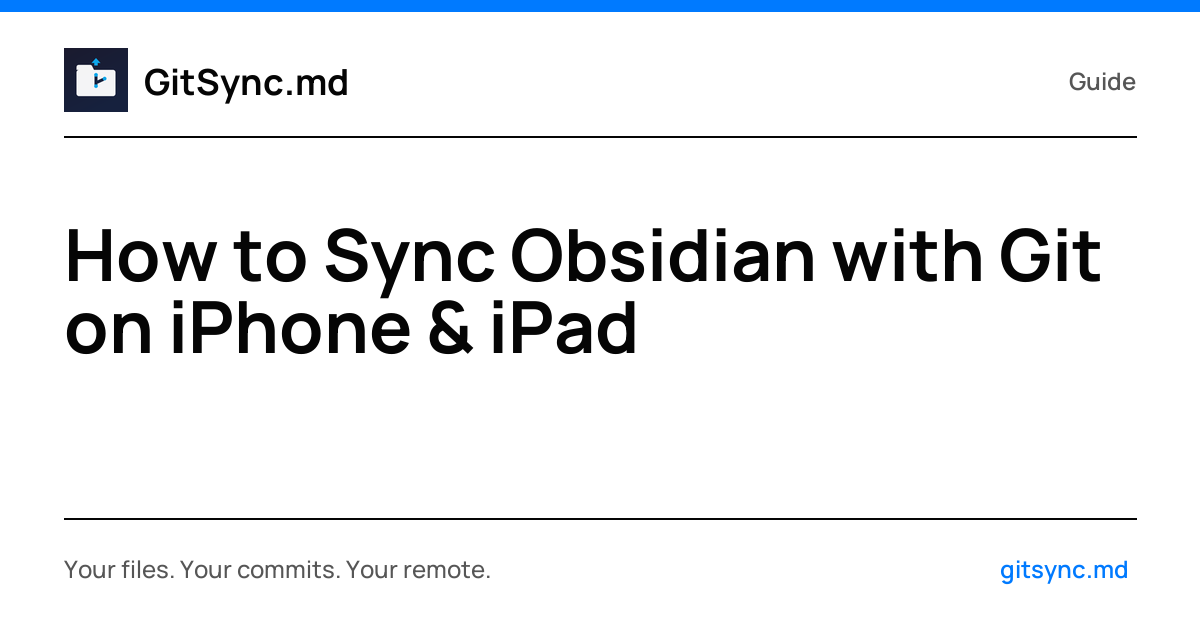
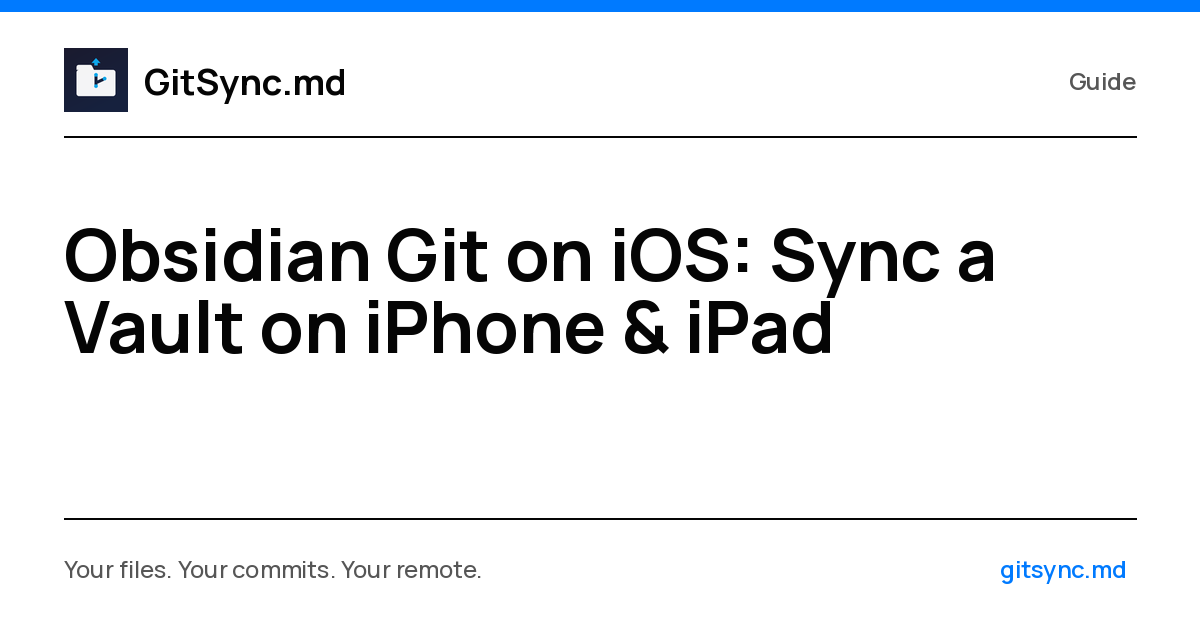
Refresh: Obsidian Git on iOS (iPhone and iPad) guide (#159)

diff --git a/site/blog/obsidian-git-iphone-ipad.html b/site/blog/obsidian-git-iphone-ipad.html
@@ -8,42 +8,42 @@
 <link rel="icon" type="image/png" sizes="16x16" href="../favicon-16x16.png">
 <link rel="icon" type="image/png" sizes="192x192" href="../favicon-192x192.png">
 <link rel="apple-touch-icon" sizes="180x180" href="../apple-touch-icon.png">
-<title>How to Sync Obsidian with Git on iPhone &amp; iPad — GitSync.md</title>
-<meta name="description" content="Sync an Obsidian vault with Git on iPhone or iPad. Clone an existing GitHub vault or publish local notes, connect authentication, and verify pull and push.">
+<title>Obsidian Git on iOS: Sync a Vault on iPhone &amp; iPad — GitSync.md</title>
+<meta name="description" content="Use Obsidian Git on iOS: compare the plugin, GitSync.md, Working Copy and terminal apps, then clone, edit, pull and push a vault on iPhone or iPad.">
 <meta name="robots" content="index, follow">
 <meta name="author" content="Cody Bontecou">
 <meta name="theme-color" content="#ffffff">
 <link rel="canonical" href="https://gitsync.md/blog/obsidian-git-iphone-ipad">
 <meta property="og:type" content="article">
 <meta property="og:site_name" content="GitSync.md">
-<meta property="og:title" content="How to Sync Obsidian with Git on iPhone &amp; iPad — GitSync.md">
-<meta property="og:description" content="Sync an Obsidian vault with Git on iPhone or iPad. Clone an existing GitHub vault or publish local notes, connect authentication, and verify pull and push.">
+<meta property="og:title" content="Obsidian Git on iOS: Sync a Vault on iPhone &amp; iPad — GitSync.md">
+<meta property="og:description" content="Use Obsidian Git on iOS: compare the plugin, GitSync.md, Working Copy and terminal apps, then clone, edit, pull and push a vault on iPhone or iPad.">
 <meta property="og:url" content="https://gitsync.md/blog/obsidian-git-iphone-ipad">
 <meta property="og:image" content="https://gitsync.md/social/blog/obsidian-git-iphone-ipad.png">
 <meta property="og:image:width" content="1200">
 <meta property="og:image:height" content="630">
 <meta property="og:image:type" content="image/png">
-<meta property="og:image:alt" content="GitSync.md guide card: How to Sync Obsidian with Git on iPhone &amp; iPad">
+<meta property="og:image:alt" content="GitSync.md guide card: Obsidian Git on iOS: Sync a Vault on iPhone &amp; iPad">
 <meta property="article:published_time" content="2026-06-13">
-<meta property="article:modified_time" content="2026-10-26">
+<meta property="article:modified_time" content="2026-11-26">
 <meta name="twitter:card" content="summary_large_image">
-<meta name="twitter:title" content="How to Sync Obsidian with Git on iPhone &amp; iPad — GitSync.md">
-<meta name="twitter:description" content="Sync an Obsidian vault with Git on iPhone or iPad. Clone an existing GitHub vault or publish local notes, connect authentication, and verify pull and push.">
+<meta name="twitter:title" content="Obsidian Git on iOS: Sync a Vault on iPhone &amp; iPad — GitSync.md">
+<meta name="twitter:description" content="Use Obsidian Git on iOS: compare the plugin, GitSync.md, Working Copy and terminal apps, then clone, edit, pull and push a vault on iPhone or iPad.">
 <meta name="twitter:image" content="https://gitsync.md/social/blog/obsidian-git-iphone-ipad.png">
-<meta name="twitter:image:alt" content="GitSync.md guide card: How to Sync Obsidian with Git on iPhone &amp; iPad">
+<meta name="twitter:image:alt" content="GitSync.md guide card: Obsidian Git on iOS: Sync a Vault on iPhone &amp; iPad">
 <script type="application/ld+json">
 {
   "@context": "https://schema.org",
   "@type": "BlogPosting",
-  "headline": "How to sync Obsidian with Git on iPhone and iPad",
-  "description": "Sync an Obsidian vault with Git on iPhone or iPad. Clone an existing GitHub vault or publish local notes, connect authentication, and verify pull and push.",
+  "headline": "How to use Obsidian Git on iOS (iPhone and iPad)",
+  "description": "Use Obsidian Git on iOS: compare the plugin, GitSync.md, Working Copy and terminal apps, then clone, edit, pull and push a vault on iPhone or iPad.",
   "image": [
     "https://gitsync.md/blog/obsidian-git-iphone-ipad/repo-list.png",
     "https://gitsync.md/blog/obsidian-git-iphone-ipad/vault-workflow.png",
     "https://gitsync.md/blog/obsidian-git-iphone-ipad/sync-actions.png"
   ],
   "datePublished": "2026-06-13",
-  "dateModified": "2026-10-26",
+  "dateModified": "2026-11-26",
   "author": {
     "@type": "Person",
     "name": "Cody Bontecou",
@@ -81,8 +81,56 @@
     {
       "@type": "ListItem",
       "position": 3,
-      "name": "Obsidian Git on iPhone",
+      "name": "Obsidian Git on iOS",
       "item": "https://gitsync.md/blog/obsidian-git-iphone-ipad"
+    }
+  ]
+}
+</script>
+<script type="application/ld+json">
+{
+  "@context": "https://schema.org",
+  "@type": "FAQPage",
+  "mainEntity": [
+    {
+      "@type": "Question",
+      "name": "Does Obsidian Git work on iOS?",
+      "acceptedAnswer": {
+        "@type": "Answer",
+        "text": "Yes, with mobile limits. The plugin’s docs say the mobile Git implementation is very unstable, doesn’t support SSH, and limits repository size by memory. See the options table for alternatives."
+      }
+    },
+    {
+      "@type": "Question",
+      "name": "Do I need Working Copy for Obsidian Git on iPhone?",
+      "acceptedAnswer": {
+        "@type": "Answer",
+        "text": "No. You can use the plugin alone, GitSync.md, Working Copy, a terminal app such as a-Shell or iSH, or an in-Obsidian sync plugin. The options table compares them."
+      }
+    },
+    {
+      "@type": "Question",
+      "name": "Can I use SSH for Obsidian Git on iOS?",
+      "acceptedAnswer": {
+        "@type": "Answer",
+        "text": "Not in the plugin: its mobile documentation says SSH authentication is not supported. GitSync.md supports SSH private keys for remotes it clones itself; see self-hosted Git over SSH on iOS."
+      }
+    },
+    {
+      "@type": "Question",
+      "name": "Does it sync automatically in the background?",
+      "acceptedAnswer": {
+        "@type": "Answer",
+        "text": "Don’t count on it. iOS decides when background work runs, so treat sync as something you trigger. How background Git sync works on iPhone explains what to expect."
+      }
+    },
+    {
+      "@type": "Question",
+      "name": "Is it free?",
+      "acceptedAnswer": {
+        "@type": "Answer",
+        "text": "The Obsidian Git plugin is free. GitSync.md costs $9.99 once on the US App Store, with no subscription. Compare costs with the Obsidian sync cost calculator."
+      }
     }
   ]
 }
@@ -108,36 +156,39 @@
 <div class="container guide-layout">
       <header class="article-hero">
         <div class="article-title">
-        <nav class="eyebrow article-breadcrumbs" aria-label="Breadcrumb"><ol><li><a href="/">Home</a></li><li><a href="/blog/">Guides</a></li><li aria-current="page">Obsidian Git on iPhone</li></ol></nav>
-        <h1>How to sync Obsidian with Git on iPhone and iPad<span class="accent">.</span></h1>
-        <p class="subtitle">To sync Obsidian with Git on iPhone or iPad, put the vault in a local Git working copy that both apps can open. GitSync.md can clone an existing repository or publish a local vault to GitHub. Write in Obsidian, then pull, commit, and push with GitSync.md or the separately configured Obsidian Git plugin.</p>
+        <nav class="eyebrow article-breadcrumbs" aria-label="Breadcrumb"><ol><li><a href="/">Home</a></li><li><a href="/blog/">Guides</a></li><li aria-current="page">Obsidian Git on iOS</li></ol></nav>
+        <h1>How to use Obsidian Git on iOS (iPhone and iPad)<span class="accent">.</span></h1>
+        <p class="subtitle">On iOS the Obsidian Git plugin can’t run a native Git program, so you either rely on its built-in mobile implementation or let a native iOS Git app own the working copy that Obsidian opens. This guide compares the options, then clones a vault with GitSync.md, opens it in Obsidian, and verifies pull and push.</p>
         <div class="meta-line"><span>By <a href="/about" rel="author">Cody Bontecou</a></span>
-          <time datetime="2026-10-26">Updated October 26, 2026</time>
+          <time datetime="2026-11-26">Updated November 26, 2026</time>
           <span>Guide</span>
-          <span>iPhone + iPad</span>
+          <span>iOS: iPhone + iPad</span>
         </div>
       </div>
       </header>
       <aside class="guide-aside" aria-label="Guide sidebar">
         <section class="side-note" aria-label="Article notes">
         <h2>Details checked</h2>
-        <p>This guide matches the current GitSync.md positioning:</p>
+        <p>Checked November 26, 2026 against the GitSync.md app source and listing, and the sources linked in the options table:</p>
         <ul>
-          <li>iPhone and iPad support</li>
+          <li>iPhone and iPad support, iOS and iPadOS 17 or later</li>
           <li>real local Git operations via libgit2</li>
           <li>iOS Files integration</li>
-          <li>GitHub plus manual self-hosted remotes</li>
+          <li>GitHub sign-in plus manual remotes over HTTPS or SSH</li>
           <li><code>syncmd://</code> x-callback-url automation</li>
+          <li>$9.99 once on the US App Store (local prices vary)</li>
         </ul>
       </section>
         <div class="guide-aside-sticky">
         <nav class="toc-card" aria-label="Article outline">
         <div class="toc-title">What this covers</div>
         <ol>
+          <li><a href="#ios-options">Your options for Git on iOS</a></li>
           <li><a href="#clone-into-files">Clone an Obsidian vault into iOS Files</a></li>
           <li><a href="#github-self-hosted">Use GitHub or a self-hosted Git remote</a></li>
           <li><a href="#open-in-obsidian">Open the vault on iPhone or iPad</a></li>
           <li><a href="#configure-obsidian-git">Trigger pull, commit, and push from Obsidian</a></li>
+          <li><a href="#faq">FAQ</a></li>
         </ol>
       </nav>
         <div class="aside-cta aside-cta-wide">
@@ -161,9 +212,38 @@
           </ol>
         </div>
 
+
+        <h2 id="ios-options">Your options for Git on iOS</h2>
+        <p>Five routes come up when people search for Obsidian Git on iOS. They differ in what actually runs Git, so the table starts there. Details on each follow it, with sources.</p>
+        <div class="comparison-scroll" role="region" aria-label="Options for Git with Obsidian on iOS" tabindex="0">
+        <table class="comparison-table"><caption>Obsidian and Git on iOS: five methods, checked November 26, 2026</caption>
+          <thead><tr><th scope="col">Method</th><th scope="col">What runs Git</th><th scope="col">Auth</th><th scope="col">Local repo / offline</th><th scope="col">Main limits</th><th scope="col">Cost</th></tr></thead>
+          <tbody>
+            <tr><th scope="row">Obsidian Git plugin alone</th><td>isomorphic-git, a JavaScript implementation inside Obsidian</td><td>HTTPS with username and token; no SSH</td><td>Repository in the vault folder</td><td>No SSH, rebase or submodules; repo size limited by memory; docs warn of crashes</td><td>Free plugin</td></tr>
+            <tr><th scope="row">GitSync.md + Obsidian</th><td>Native libgit2 client in GitSync.md</td><td>GitHub sign-in, HTTPS token or password, or SSH key</td><td>Real <code>.git</code> folder in Files; works on the local copy</td><td>iOS 17 or later; it is a Git client, not a terminal; background work is best effort</td><td>$9.99 once (US)</td></tr>
+            <tr><th scope="row">Working Copy + Obsidian</th><td>Working Copy, a native iOS Git app</td><td>HTTPS or SSH, per its listing</td><td>Local repository; linking an Obsidian folder needs Pro</td><td>Pushing needs Pro; see the <a href="/compare/gitsync-vs-working-copy">full comparison</a></td><td>Free download; Pro unlock, $29.99 on the US listing when we checked</td></tr>
+            <tr><th scope="row">Terminal app (a-Shell or iSH)</th><td>Git run by you in the shell</td><td>Yours to set up</td><td>Depends on your setup; a-Shell lists <code>lg2</code> for repositories</td><td>Manual; neither official page documents a full Git workflow</td><td>Both free</td></tr>
+            <tr><th scope="row">In-Obsidian GitHub-API sync plugin (obsidian-easy-git-sync)</th><td>The plugin, inside Obsidian; its README says no git or other app is required</td><td>Access token pasted in settings; HTTPS only on phones</td><td>Syncs with the repository on your host; not described as a local Git working copy</td><td>Files over 100 MB are skipped</td><td>Not stated in its README</td></tr>
+          </tbody>
+        </table></div>
+        <p class="small-meta">Sources: Obsidian Git <a href="https://publish.obsidian.md/git-doc/Getting+Started" target="_blank" rel="noopener">mobile documentation</a> and <a href="https://github.com/Vinzent03/obsidian-git" target="_blank" rel="noopener">README</a>; GitSync.md <a href="/">product page</a> and <a href="https://apps.apple.com/us/app/id6758960270" target="_blank" rel="noopener">US App Store listing</a>; Working Copy <a href="https://apps.apple.com/us/app/git-client-working-copy/id896694807" target="_blank" rel="noopener">App Store listing</a> and <a href="https://workingcopy.app/manual/" target="_blank" rel="noopener">manual</a>; <a href="https://holzschu.github.io/a-Shell_iOS/" target="_blank" rel="noopener">a-Shell</a> and <a href="https://ish.app/" target="_blank" rel="noopener">iSH</a>; <a href="https://github.com/69Jesse/obsidian-easy-git-sync" target="_blank" rel="noopener">obsidian-easy-git-sync README</a>.</p>
+        <p><a href="/v/web-homepage-102" target="_blank" rel="noopener">Want real Git with SSH and a normal .git folder? Get GitSync.md for iPhone and iPad →</a></p>
+
+        <h3>Obsidian Git plugin alone</h3>
+        <p>The plugin’s documentation says the Git implementation on mobile is “very unstable”, that it uses isomorphic-git because native Git can’t be used on Android or iOS, that SSH authentication, the rebase merge strategy and submodules aren’t supported, and that repository size is limited by memory. It also says Obsidian may crash on clone or pull, or run indefinitely, depending on your device and free RAM. The full list is in <a href="/blog/obsidian-git-plugin#mobile">Obsidian Git on mobile</a>. It can still be enough for a small vault over HTTPS.</p>
+        <h3>GitSync.md + Obsidian</h3>
+        <p>This guide. GitSync.md is a native client built on libgit2 that keeps a real <code>.git</code> folder in a Files location Obsidian can open. It signs in with GitHub or takes an HTTPS token or SSH key, offers <code>syncmd://</code> automation, requires iOS 17 or iPadOS 17, and costs $9.99 once on the US App Store. You can use it alone, or <a href="/blog/gitsync-connect-obsidian-git">hand its GitHub sign-in to the plugin with Connect</a>.</p>
+        <h3>Working Copy + Obsidian</h3>
+        <p>Working Copy is another native iOS Git client. It can link an external folder such as an Obsidian vault and does its own Git operations. Its pricing, as the official <a href="https://apps.apple.com/us/app/git-client-working-copy/id896694807" target="_blank" rel="noopener">App Store listing</a> and <a href="https://workingcopy.app/" target="_blank" rel="noopener">site</a> show it, is a free download with a Pro unlock. For folder setup, authentication, automation and price side by side, read <a href="/compare/gitsync-vs-working-copy">GitSync.md vs Working Copy</a>.</p>
+        <h3>Terminal apps: a-Shell and iSH</h3>
+        <p>Running Git yourself is possible and manual. a-Shell’s <a href="https://apps.apple.com/us/app/a-shell/id1473805438" target="_blank" rel="noopener">App Store listing</a> says you can work with repositories using <code>lg2</code>, and its <a href="https://holzschu.github.io/a-Shell_iOS/" target="_blank" rel="noopener">project page</a> says it is compatible with Apple Shortcuts and uses iOS file sharing. iSH’s <a href="https://ish.app/" target="_blank" rel="noopener">project page</a> describes a Linux shell on iOS. Installing Git, handling credentials and pointing at the vault folder are your job; see <a href="/compare/best-git-client-ios">the best Git client for iOS</a> for how these apps compare.</p>
+        <h3>In-Obsidian GitHub-API sync plugins</h3>
+        <p><a href="https://github.com/69Jesse/obsidian-easy-git-sync" target="_blank" rel="noopener">obsidian-easy-git-sync</a> describes itself as running entirely inside Obsidian, phones included, with no git or other app required. Per its README, you paste an access token, choose a repository on GitHub, GitLab, Bitbucket, Codeberg or your own HTTPS server, and each sync creates a commit; phones can’t use SSH. It syncs through your Git host rather than being described as a local Git working copy. See <a href="/compare/obsidian-sync-alternatives">Obsidian sync alternatives</a> for other approaches.</p>
+        <p><strong>Which to pick:</strong> if you want the plugin’s commands inside Obsidian, configure Obsidian Git with <a href="/blog/gitsync-connect-obsidian-git">Connect</a> or a <a href="/blog/obsidian-git-ios-setup">token</a>. If you want reliable real Git, SSH or a self-hosted remote, let GitSync.md own the repository.</p>
+
         <h2 id="why-ios-needs-help">Why Obsidian Git needs help on iOS</h2>
-        <p>On desktop, Obsidian Git can use installed Git tools. On iPhone and iPad, the plugin uses a separate mobile implementation with its own limits. Apple’s app sandbox also makes the location of the local vault important.</p>
-        <p><strong>GitSync.md provides a native Git client for that shared folder.</strong> It uses libgit2 to clone, pull, commit, and push real Git repositories locally on iOS. The result is a normal folder with a real <code>.git</code> directory, not a proprietary notes database or an API-only mirror. Obsidian can edit the Markdown files, and GitSync.md can sync the same working copy.</p>
+        <p>On desktop, Obsidian Git can use installed Git tools. On iPhone and iPad it can’t, because, as the plugin’s <a href="https://publish.obsidian.md/git-doc/Getting+Started" target="_blank" rel="noopener">documentation</a> says, native Git can’t be used on iOS. It runs a JavaScript implementation with the limits above. <a href="/blog/obsidian-git-plugin">Obsidian Git: commands, settings and common errors</a> has the full list.</p>
+        <p>The second issue is where the vault lives. iOS apps are sandboxed, and another app can open your files only through locations the system exposes in Files, as Apple’s <a href="https://developer.apple.com/documentation/fileprovider" target="_blank" rel="noopener">file provider documentation</a> describes. So the repository has to sit in a folder both Obsidian and your Git app can reach, usually <strong>On My iPhone → Obsidian</strong>. GitSync.md uses libgit2 to clone, pull, commit and push a real repository in that folder: a normal <code>.git</code> directory, not a proprietary database or an API-only mirror.</p>
 
         <div class="flow-diagram" aria-label="Obsidian Git on iOS workflow">
           <div class="flow-node">GitHub or self-hosted Git</div>
@@ -299,6 +379,18 @@ syncmd://x-callback-url/status?repo=MyVault</code></pre>
 
         <h3>The sync URL does not find the repo</h3>
         <p>The <code>repo</code> query parameter must match the vault folder name in GitSync.md. If your folder is named <code>second-brain</code>, use <code>repo=second-brain</code>, not the remote repository title from your Git host.</p>
+
+        <h2 id="faq">FAQ</h2>
+        <h3>Does Obsidian Git work on iOS?</h3>
+        <p>Yes, with mobile limits. The plugin’s docs say the mobile Git implementation is very unstable, doesn’t support SSH, and limits repository size by memory. See the <a href="#ios-options">options table</a> for alternatives.</p>
+        <h3>Do I need Working Copy for Obsidian Git on iPhone?</h3>
+        <p>No. You can use the plugin alone, GitSync.md, Working Copy, a terminal app such as a-Shell or iSH, or an in-Obsidian sync plugin. The <a href="#ios-options">options table</a> compares them.</p>
+        <h3>Can I use SSH for Obsidian Git on iOS?</h3>
+        <p>Not in the plugin: its mobile documentation says SSH authentication is not supported. GitSync.md supports SSH private keys for remotes it clones itself; see <a href="/blog/self-hosted-git-ssh-ios">self-hosted Git over SSH on iOS</a>.</p>
+        <h3>Does it sync automatically in the background?</h3>
+        <p>Don’t count on it. iOS decides when background work runs, so treat sync as something you trigger. <a href="/blog/obsidian-git-background-sync-iphone">How background Git sync works on iPhone</a> explains what to expect.</p>
+        <h3>Is it free?</h3>
+        <p>The Obsidian Git plugin is free. GitSync.md costs $9.99 once on the US App Store, with no subscription. Compare costs with the <a href="/tools/obsidian-sync-cost-calculator">Obsidian sync cost calculator</a>.</p>
 
         <h2 id="recap">Recap</h2>
         <p>Obsidian Git on iPhone and iPad works best when you separate responsibilities: Obsidian edits Markdown, GitSync.md owns the real local Git working copy, and iOS Files is the bridge between them. Clone once, open the folder as a vault, then use <code>syncmd://</code> automation or GitSync.md's own controls to pull, commit, and push.</p>

diff --git a/site/blog/sync-obsidian-github.html b/site/blog/sync-obsidian-github.html
@@ -271,7 +271,7 @@ git push -u origin main</code></pre>
         <p>On iOS, the vault has to be a local folder both apps can reach, usually <strong>On My iPhone → Obsidian</strong> (or <strong>On My iPad → Obsidian</strong>). The Git route here doesn’t use an iCloud Drive vault folder, so leave <strong>Store in iCloud</strong> off when you create the vault. You have two routes:</p>
         <ul>
           <li><strong>Obsidian Git on the phone.</strong> Clone the vault into Obsidian’s local folder, then install the plugin in that vault and give it a GitHub personal access token. <a href="/blog/obsidian-git-ios-setup">Set up an Obsidian Git token on iPhone</a> walks through it. The mobile limits above apply.</li>
-          <li><strong>A native Git client.</strong> In GitSync.md, sign in with GitHub or paste a personal access token, set the save location to <strong>On My iPhone → Obsidian</strong>, and clone the vault repository. Then open that folder in Obsidian with <strong>Open folder as vault</strong>. GitSync.md uses libgit2 to pull, commit and push, over HTTPS or SSH, and stores credentials in the iOS Keychain. <a href="/blog/obsidian-git-iphone-ipad">The iPhone and iPad guide</a> has the full setup.</li>
+          <li><strong>A native Git client.</strong> In GitSync.md, sign in with GitHub or paste a personal access token, set the save location to <strong>On My iPhone → Obsidian</strong>, and clone the vault repository. Then open that folder in Obsidian with <strong>Open folder as vault</strong>. GitSync.md uses libgit2 to pull, commit and push, over HTTPS or SSH, and stores credentials in the iOS Keychain. <a href="/blog/obsidian-git-iphone-ipad">Obsidian Git on iOS (iPhone and iPad)</a> compares the options and has the full setup.</li>
         </ul>
         <p>You can also mix them: let GitSync.md clone the vault, and let the plugin do daily syncing inside Obsidian. For GitHub HTTPS vaults signed in with GitSync.md’s GitHub account, the free <a href="/blog/gitsync-connect-obsidian-git">GitSync.md Connect</a> plugin hands your sign-in to Obsidian Git, so you don’t copy a token between apps. Connect needs GitSync.md 2.8.0 or later, and it doesn’t change the plugin’s mobile limits.</p>
         <p>GitSync.md needs iOS 17 or iPadOS 17 or later. It costs $9.99 once on the US App Store; local prices may vary.</p>

diff --git a/site/blog/obsidian-git-plugin.html b/site/blog/obsidian-git-plugin.html
@@ -254,7 +254,7 @@
 
         <h2 id="native">When to use a native Git app on your phone instead</h2>
         <p>The plugin is the right tool on desktop. On a phone it can be enough for a small vault over HTTPS. A native Git client is the better choice when the vault is large, the remote needs SSH, or Obsidian crashes during clone or pull. The plugin’s own docs say that if mobile crashes happen to you, the plugin won’t work for you.</p>
-        <p><a href="/blog/obsidian-git-iphone-ipad">GitSync.md on iPhone and iPad</a> (iOS and iPadOS 17 or later) and <a href="/blog/obsidian-git-android">on Android</a> (Android 9 or later) does Git natively over HTTPS or SSH, in the folder Obsidian opens. <a href="/blog/gitsync-connect-obsidian-git">GitSync.md Connect</a> (needs GitSync.md 2.8.0 or later) passes a GitHub sign-in to the plugin for HTTPS vaults. It doesn’t lift the plugin’s mobile limits.</p>
+        <p><a href="/blog/obsidian-git-iphone-ipad">Obsidian Git on iOS: options and setup</a>, including <a href="/blog/obsidian-git-iphone-ipad">GitSync.md on iPhone and iPad</a> (iOS and iPadOS 17 or later) and <a href="/blog/obsidian-git-android">on Android</a> (Android 9 or later) does Git natively over HTTPS or SSH, in the folder Obsidian opens. <a href="/blog/gitsync-connect-obsidian-git">GitSync.md Connect</a> (needs GitSync.md 2.8.0 or later) passes a GitHub sign-in to the plugin for HTTPS vaults. It doesn’t lift the plugin’s mobile limits.</p>
         <p>If GitSync.md handles Git on the phone, turn on <strong>Disable on this device</strong> in the plugin there, so two Git clients don’t work on the same folder. GitSync.md is not the open-source “GitSync” app the plugin’s README may mention; see <a href="/compare/gitsync-vs-gitsync-md">GitSync vs GitSync.md</a>. To weigh Git against Obsidian’s own service, read <a href="/compare/obsidian-sync-vs-git">Obsidian Sync vs Git</a>.</p>
         <p>GitSync.md costs $9.99 once (local prices vary): <a href="/v/web-homepage-134" target="_blank" rel="noopener">App Store</a> · <a href="https://play.google.com/store/apps/details?id=com.bontecou.syncmd" target="_blank" rel="noopener">Google Play</a>.</p>
 

diff --git a/site/blog/index.html b/site/blog/index.html
@@ -59,9 +59,9 @@
     },
     {
       "@type": "BlogPosting",
-      "headline": "How to sync Obsidian with Git on iPhone and iPad",
+      "headline": "How to use Obsidian Git on iOS (iPhone and iPad)",
       "url": "https://gitsync.md/blog/obsidian-git-iphone-ipad",
-      "dateModified": "2026-10-26",
+      "dateModified": "2026-11-26",
       "author": {
         "@type": "Person",
         "name": "Cody Bontecou"
@@ -414,8 +414,8 @@
           <span class="post-link" aria-hidden="true"><svg class="icon" focusable="false"><use href="#i-arrow"/></svg></span>
         </a><a href="/blog/obsidian-git-iphone-ipad" class="post-card">
           <span class="post-number" aria-hidden="true">01</span>
-          <div class="post-content"><div class="post-meta"><span class="tag">Guide</span><time datetime="2026-10-26">Updated October 26, 2026</time></div>
-            <h3 class="post-title">How to sync Obsidian with Git on iPhone and iPad</h3><p class="post-excerpt">Start with an existing GitHub vault or publish local notes. Choose your Git client, connect credentials, and verify both directions.</p></div>
+          <div class="post-content"><div class="post-meta"><span class="tag">Guide</span><time datetime="2026-11-26">Updated November 26, 2026</time></div>
+            <h3 class="post-title">How to use Obsidian Git on iOS (iPhone and iPad)</h3><p class="post-excerpt">Compare the plugin, GitSync.md, Working Copy and terminal apps for Git on iOS, then clone a vault, edit it in Obsidian and verify pull and push.</p></div>
           <span class="post-link" aria-hidden="true"><svg class="icon" focusable="false"><use href="#i-arrow"/></svg></span>
         </a><a href="/blog/obsidian-git-android" class="post-card">
           <span class="post-number" aria-hidden="true">New</span>

diff --git a/site/compare/best-git-client-ios.html b/site/compare/best-git-client-ios.html
@@ -221,7 +221,7 @@
         <p>The free routes are the terminal apps and Gitox, whose <a href="https://gitox.app/" target="_blank" rel="noopener">site</a> lists a “$0 forever” Free tier with “Full Git operations” and whose listing marks only the AI Agent as Pro. Gitox’s site and listing describe push in its free tier; we have not tested it. a-Shell and iSH cost nothing and can run Git commands, but you set up the tooling and credentials, and the sources above do not document the steps. GitHub Mobile is free but cannot be your working copy.</p>
 
         <h2 id="obsidian">Which one for Obsidian?</h2>
-        <p>You need a client that stores the vault where Obsidian can open it. Start with the <a href="/blog/obsidian-git-iphone-ipad">iPhone and iPad setup guide</a>. On Android? See the <a href="/compare/best-git-client-android">Android comparison</a> or <a href="/blog/obsidian-git-android">Obsidian Git on Android</a>; if Git is not settled, compare <a href="/compare/obsidian-sync-alternatives">Obsidian Sync alternatives</a>. For large attachments, read <a href="/blog/git-lfs-ios">Git LFS on iPhone and iPad</a>.</p>
+        <p>You need a client that stores the vault where Obsidian can open it. Start with <a href="/blog/obsidian-git-iphone-ipad">Obsidian Git on iOS: options and setup</a>. On Android? See the <a href="/compare/best-git-client-android">Android comparison</a> or <a href="/blog/obsidian-git-android">Obsidian Git on Android</a>; if Git is not settled, compare <a href="/compare/obsidian-sync-alternatives">Obsidian Sync alternatives</a>. For large attachments, read <a href="/blog/git-lfs-ios">Git LFS on iPhone and iPad</a>.</p>
 
         <h2 id="questions">Common questions</h2>
         <h3>Can an iPad run real Git?</h3>

diff --git a/site/blog/obsidian-git-ios-setup.html b/site/blog/obsidian-git-ios-setup.html
@@ -109,7 +109,7 @@
         <div class="article-title">
         <nav class="eyebrow article-breadcrumbs" aria-label="Breadcrumb"><ol><li><a href="/">Home</a></li><li><a href="/blog/">Guides</a></li><li aria-current="page">Manual Obsidian Git setup</li></ol></nav>
         <h1>Set up a GitHub token in Obsidian Git on iPhone</h1>
-        <p class="subtitle">Use this manual setup when you want to configure GitHub credentials directly in Obsidian Git. Set the commit author and token separately, then verify a pull and push from your iPhone.</p>
+        <p class="subtitle">New to Obsidian Git on iOS? Start with <a href="/blog/obsidian-git-iphone-ipad">Obsidian Git on iOS: options and full setup</a>. Use this manual setup when you want to configure GitHub credentials directly in Obsidian Git. Set the commit author and token separately, then verify a pull and push from your iPhone.</p>
         <div class="meta-line"><span>By <a href="/about" rel="author">Cody Bontecou</a></span><span>Published February 15, 2026</span><span>Updated November 18, 2026 — Guide</span></div>
       </div>
       </header>
